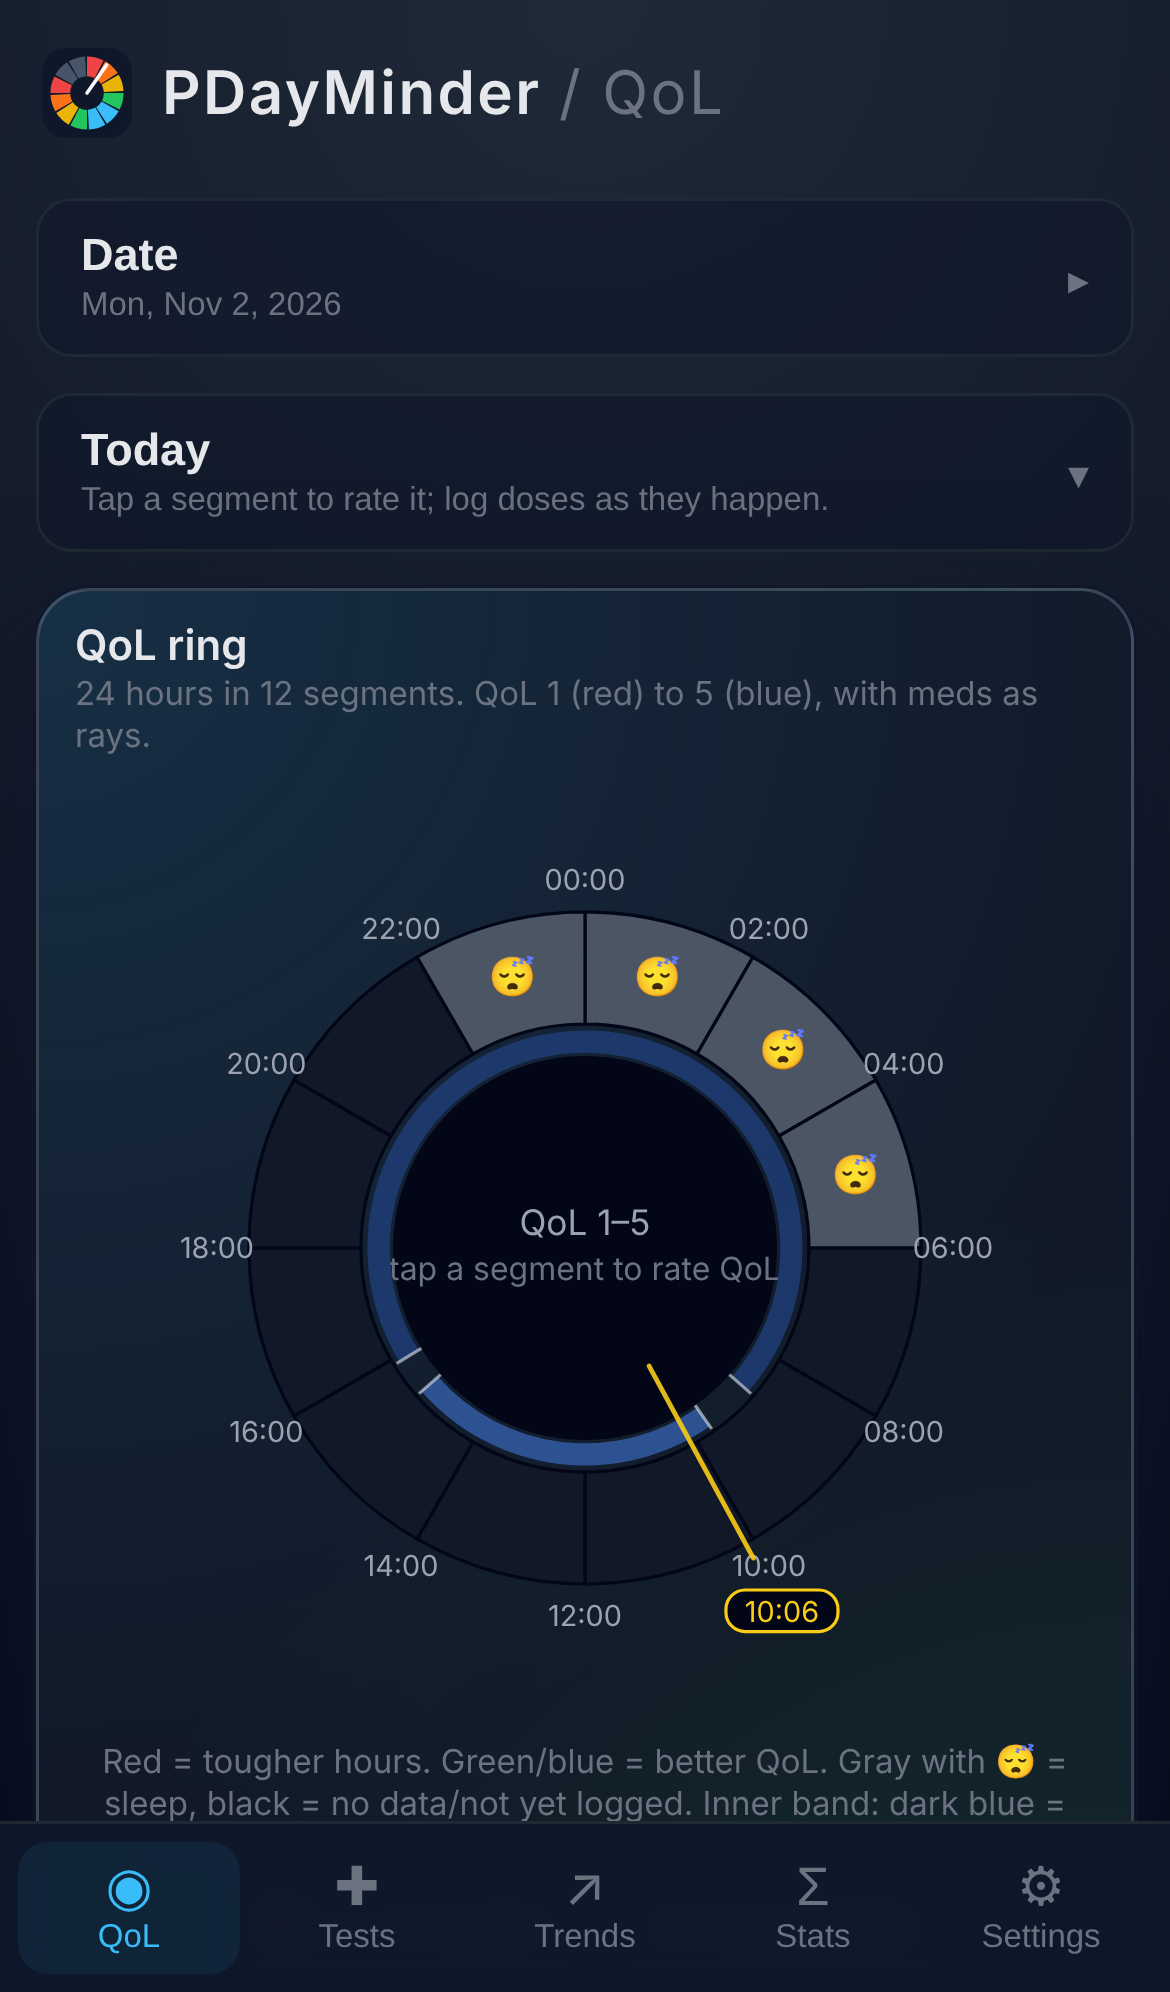
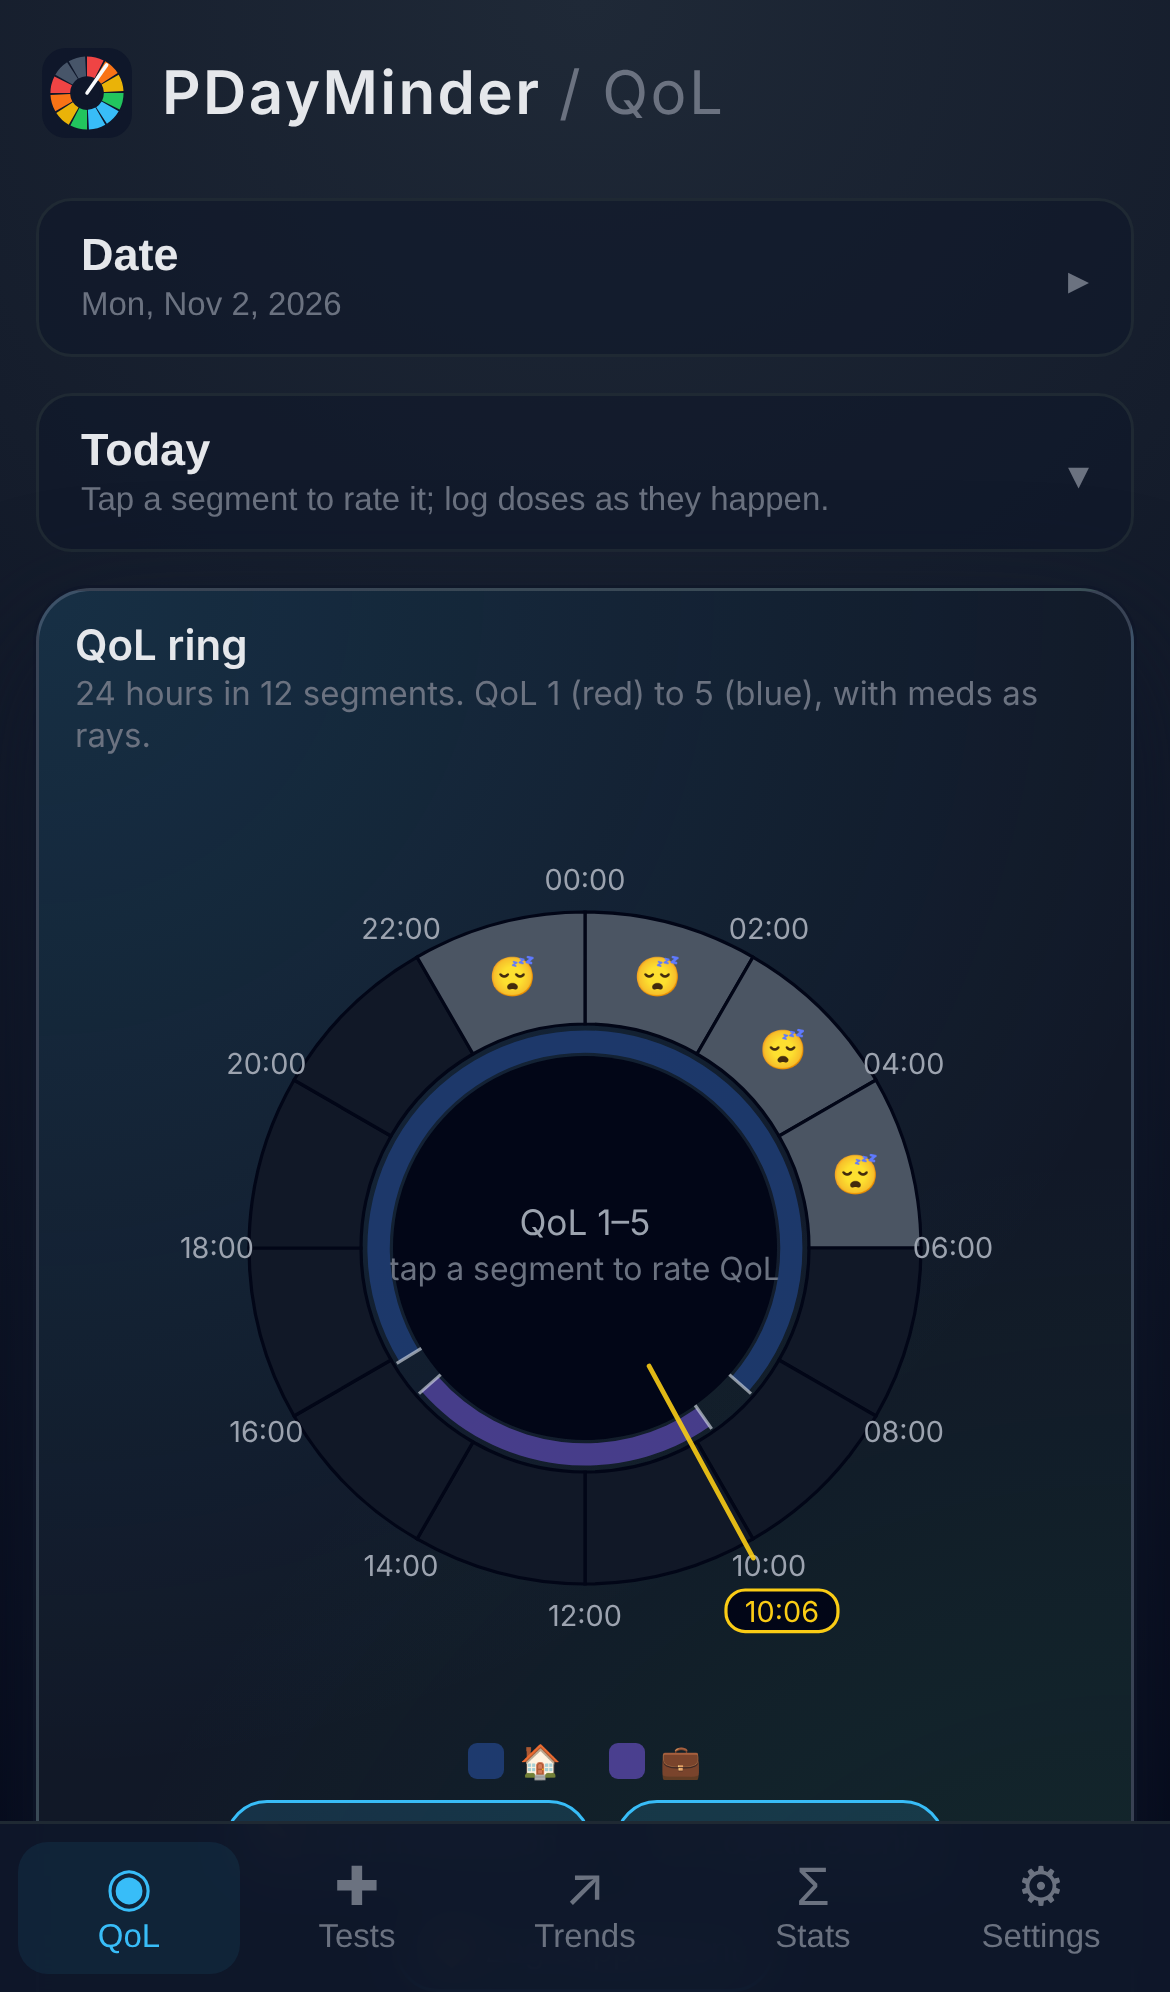
Events: severity follows the app-wide 1–5 scale (1 worst), list bar saturates with severity, stacked time pickers; ring legend reduced to home/work swatches
Claude-Session: https://claude.ai/code/session_01CjncYfbvvjMgMo3sC414UQ

diff --git a/index.html b/index.html
@@ -1356,13 +1356,13 @@
               <div style={{ display: "flex", flexWrap: "wrap", gap: 6, marginTop: 4 }}>
                 {EVENT_REGIONS.map((r) => <button key={r} type="button" className="quick-time-pill" style={pill(f.regions.includes(r))} onClick={() => toggle("regions", r)}>{r}</button>)}
               </div>
-              <div style={{ fontSize: 11, color: "var(--muted)", marginTop: 8 }}>Severity (1 = noticeable, 5 = couldn't function)</div>
+              <div style={{ fontSize: 11, color: "var(--muted)", marginTop: 8 }}>How bad, on the app's 1–5 scale (1 = couldn't function, 5 = barely noticeable)</div>
               <div style={{ display: "flex", gap: 6, marginTop: 4 }}>
-                {[1, 2, 3, 4, 5].map((n) => <button key={n} type="button" className="quick-time-pill" style={{ ...pill(f.severity === n, ratingColor(6 - n)), minWidth: 36, textAlign: "center" }} onClick={() => setF((o) => ({ ...o, severity: n }))}>{n}</button>)}
+                {[1, 2, 3, 4, 5].map((n) => <button key={n} type="button" className="quick-time-pill" style={{ ...pill(f.severity === n, ratingColor(n)), minWidth: 36, textAlign: "center" }} onClick={() => setF((o) => ({ ...o, severity: n }))}>{n}</button>)}
               </div>
-              <div style={{ display: "grid", gridTemplateColumns: "1fr 1fr", gap: 8, marginTop: 8 }}>
-                <label style={{ fontSize: 11, color: "var(--muted)" }}>Started<input type="datetime-local" className="settings-input" style={{ width: "100%", boxSizing: "border-box", marginTop: 2 }} value={f.start} onChange={(e) => setF((o) => ({ ...o, start: e.target.value }))} /></label>
-                <label style={{ fontSize: 11, color: "var(--muted)" }}>Ended<input type="datetime-local" className="settings-input" style={{ width: "100%", boxSizing: "border-box", marginTop: 2 }} value={f.end} disabled={f.ongoing} onChange={(e) => setF((o) => ({ ...o, end: e.target.value }))} /></label>
+              <div style={{ display: "grid", gridTemplateColumns: "1fr", gap: 8, marginTop: 8 }}>
+                <label style={{ fontSize: 11, color: "var(--muted)", display: "flex", flexDirection: "column", gap: 2 }}>Started<input type="datetime-local" className="settings-input" style={{ width: "100%", boxSizing: "border-box", height: 34, fontSize: 14 }} value={f.start} onChange={(e) => setF((o) => ({ ...o, start: e.target.value }))} /></label>
+                <label style={{ fontSize: 11, color: "var(--muted)", display: "flex", flexDirection: "column", gap: 2 }}>Ended<input type="datetime-local" className="settings-input" style={{ width: "100%", boxSizing: "border-box", height: 34, fontSize: 14 }} value={f.end} disabled={f.ongoing} onChange={(e) => setF((o) => ({ ...o, end: e.target.value }))} /></label>
               </div>
               <label style={{ display: "flex", alignItems: "center", gap: 6, fontSize: 12, marginTop: 6 }}><input type="checkbox" checked={f.ongoing} onChange={(e) => setF((o) => ({ ...o, ongoing: e.target.checked }))} /> still happening (set the end later)</label>
               <div style={{ fontSize: 11, color: "var(--muted)", marginTop: 8 }}>What you were doing / possible triggers</div>
@@ -1391,15 +1391,17 @@
       return [Math.max(0, (Math.max(s, d0) - d0) / 60000), Math.min(1440, (Math.min(en, d1) - d0) / 60000)];
     }
     function fmtEventTime(iso) { return new Date(iso).toLocaleTimeString([], { hour: "2-digit", minute: "2-digit" }); }
+    // Red whose saturation grows as the event gets worse (severity 1 = worst on the app's scale).
+    const severityRed = (sev) => `hsl(0, ${Math.round(25 + (5 - Math.max(1, Math.min(5, sev || 3))) * 17)}%, 52%)`;
     function DayEventsList({ events, onEdit, onDeleted }) {
       if (!events || !events.length) return null;
       const del = async (e) => { if (!window.confirm("Delete this event?")) return; const r = await apiFetch("/api/events?ts=" + encodeURIComponent(e.ts), { method: "DELETE" }); if (r.ok) onDeleted && onDeleted(); };
       return (
         <div style={{ marginTop: 8 }}>
           {events.map((e) => (
-            <div key={e.ts} style={{ display: "flex", gap: 8, alignItems: "flex-start", background: "#0f172a", borderRadius: 8, padding: "6px 10px", marginTop: 6, borderLeft: `3px solid ${eventColor(e.type)}` }}>
+            <div key={e.ts} style={{ display: "flex", gap: 8, alignItems: "flex-start", background: "#0f172a", borderRadius: 8, padding: "6px 10px", marginTop: 6, borderLeft: `4px solid ${severityRed(e.severity)}` }}>
               <div style={{ flex: 1, minWidth: 0 }}>
-                <div style={{ fontSize: 13 }}><strong>{eventLabel(e.type)}</strong> · severity {e.severity} · {fmtEventTime(e.start)}–{e.end ? fmtEventTime(e.end) : "ongoing"}{e.minutes != null ? ` (${e.minutes} min)` : ""}</div>
+                <div style={{ fontSize: 13 }}><strong>{eventLabel(e.type)}</strong> · <span style={{ color: ratingColor(e.severity || 3) }}>{e.severity}/5</span> · {fmtEventTime(e.start)}–{e.end ? fmtEventTime(e.end) : "ongoing"}{e.minutes != null ? ` (${e.minutes} min)` : ""}</div>
                 <div style={{ fontSize: 11, color: "#94a3b8" }}>
                   {(e.regions || []).join(", ")}{e.regions && e.regions.length && e.triggers && e.triggers.length ? " · " : ""}{(e.triggers || []).join(", ")}
                   {e.minutes_since_dose != null ? ` · ${e.minutes_since_dose} min after ${e.dose_time} dose` : " · no prior dose that day"}
@@ -4459,9 +4461,9 @@
             </div>
             <div className="ring-container">
               <DayRing day={day} onSegmentClick={handleSegmentClick} settings={settings} events={dayEventList} context={dayContext} />
-              <div className="ring-caption">
-                Red = tougher hours. Green/blue = better QoL. Gray with 😴 = sleep, black = no data/not yet logged.
-                {dayContext.length > 0 && <> Inner band: navy = home, violet = work; gaps = driving, out, or unknown.</>}
+              <div className="ring-caption" style={{ display: "flex", gap: 16, justifyContent: "center", alignItems: "center" }}>
+                <span><span style={{ display: "inline-block", width: 12, height: 12, background: PLACE_COLORS.home, borderRadius: 3, verticalAlign: "-2px", marginRight: 5 }} />🏠</span>
+                <span><span style={{ display: "inline-block", width: 12, height: 12, background: PLACE_COLORS.work, borderRadius: 3, verticalAlign: "-2px", marginRight: 5 }} />💼</span>
               </div>
             </div>
             <div className="controls-row">

diff --git a/README.md b/README.md
@@ -87,7 +87,7 @@ draws in one pass.
 
 ## Symptom events (source = event)
 "Log an event" on the QoL tab records dystonia / cramping / posturing, involuntary movement, freezing, off episodes,
-falls, pain or other: body regions, severity 1–5, start and end (or "still happening"), triggers, free note. Stored
+falls, pain or other: body regions, severity on the app-wide 1–5 scale (1 = couldn't function, 5 = barely noticeable), start and end (or "still happening"), triggers, free note. Stored
 as one observation per event (`metric = event`, `ts = start`, `value = duration minutes`, details in `raw`) with
 the dose context computed server-side at save: `dose_state`, `minutes_since_dose`, `dose_time`. Endpoints:
 `GET /api/events?days=`, `POST /api/events` (upsert by start; `original_start` moves an edited event),
